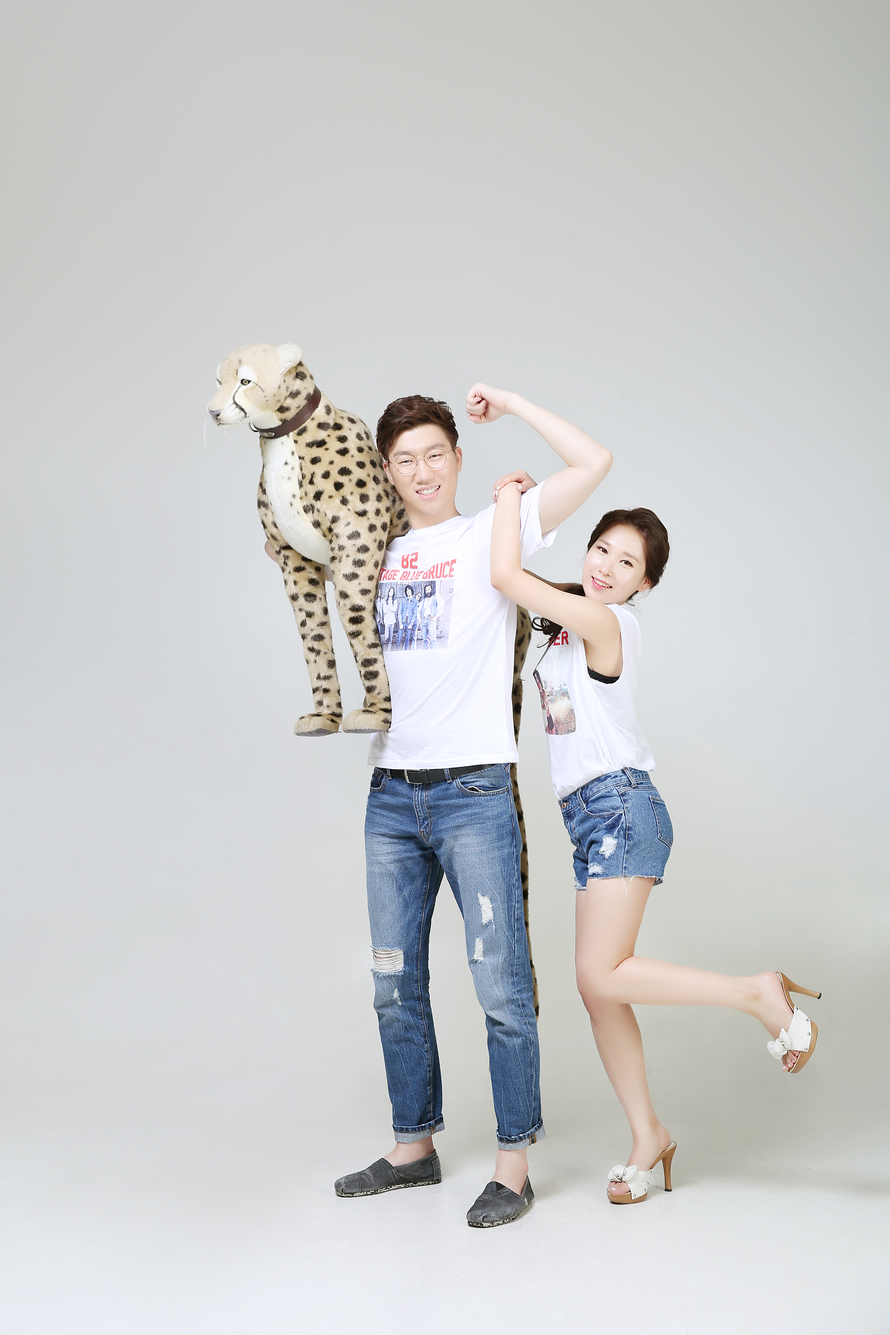
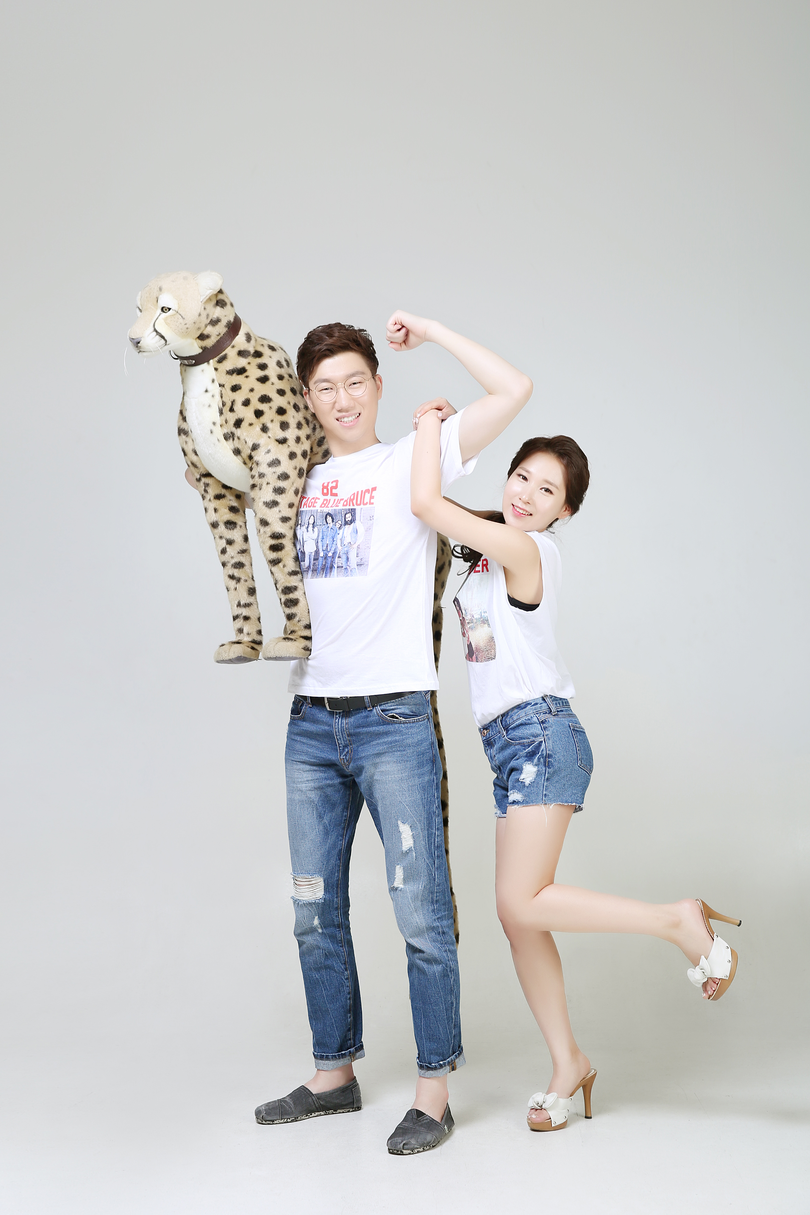
- 웹폰트 http > https - 이미지 크기 재조정

Changed region(s): [[0.1544, 0.2182, 1.0, 0.9665]]

diff --git a/css/style.css b/css/style.css
@@ -1,4 +1,4 @@
-@import url(http://fonts.googleapis.com/earlyaccess/jejumyeongjo.css);
+@import url(https://fonts.googleapis.com/earlyaccess/jejumyeongjo.css);
 html {
 	height: 100%;
 	margin: 0;
